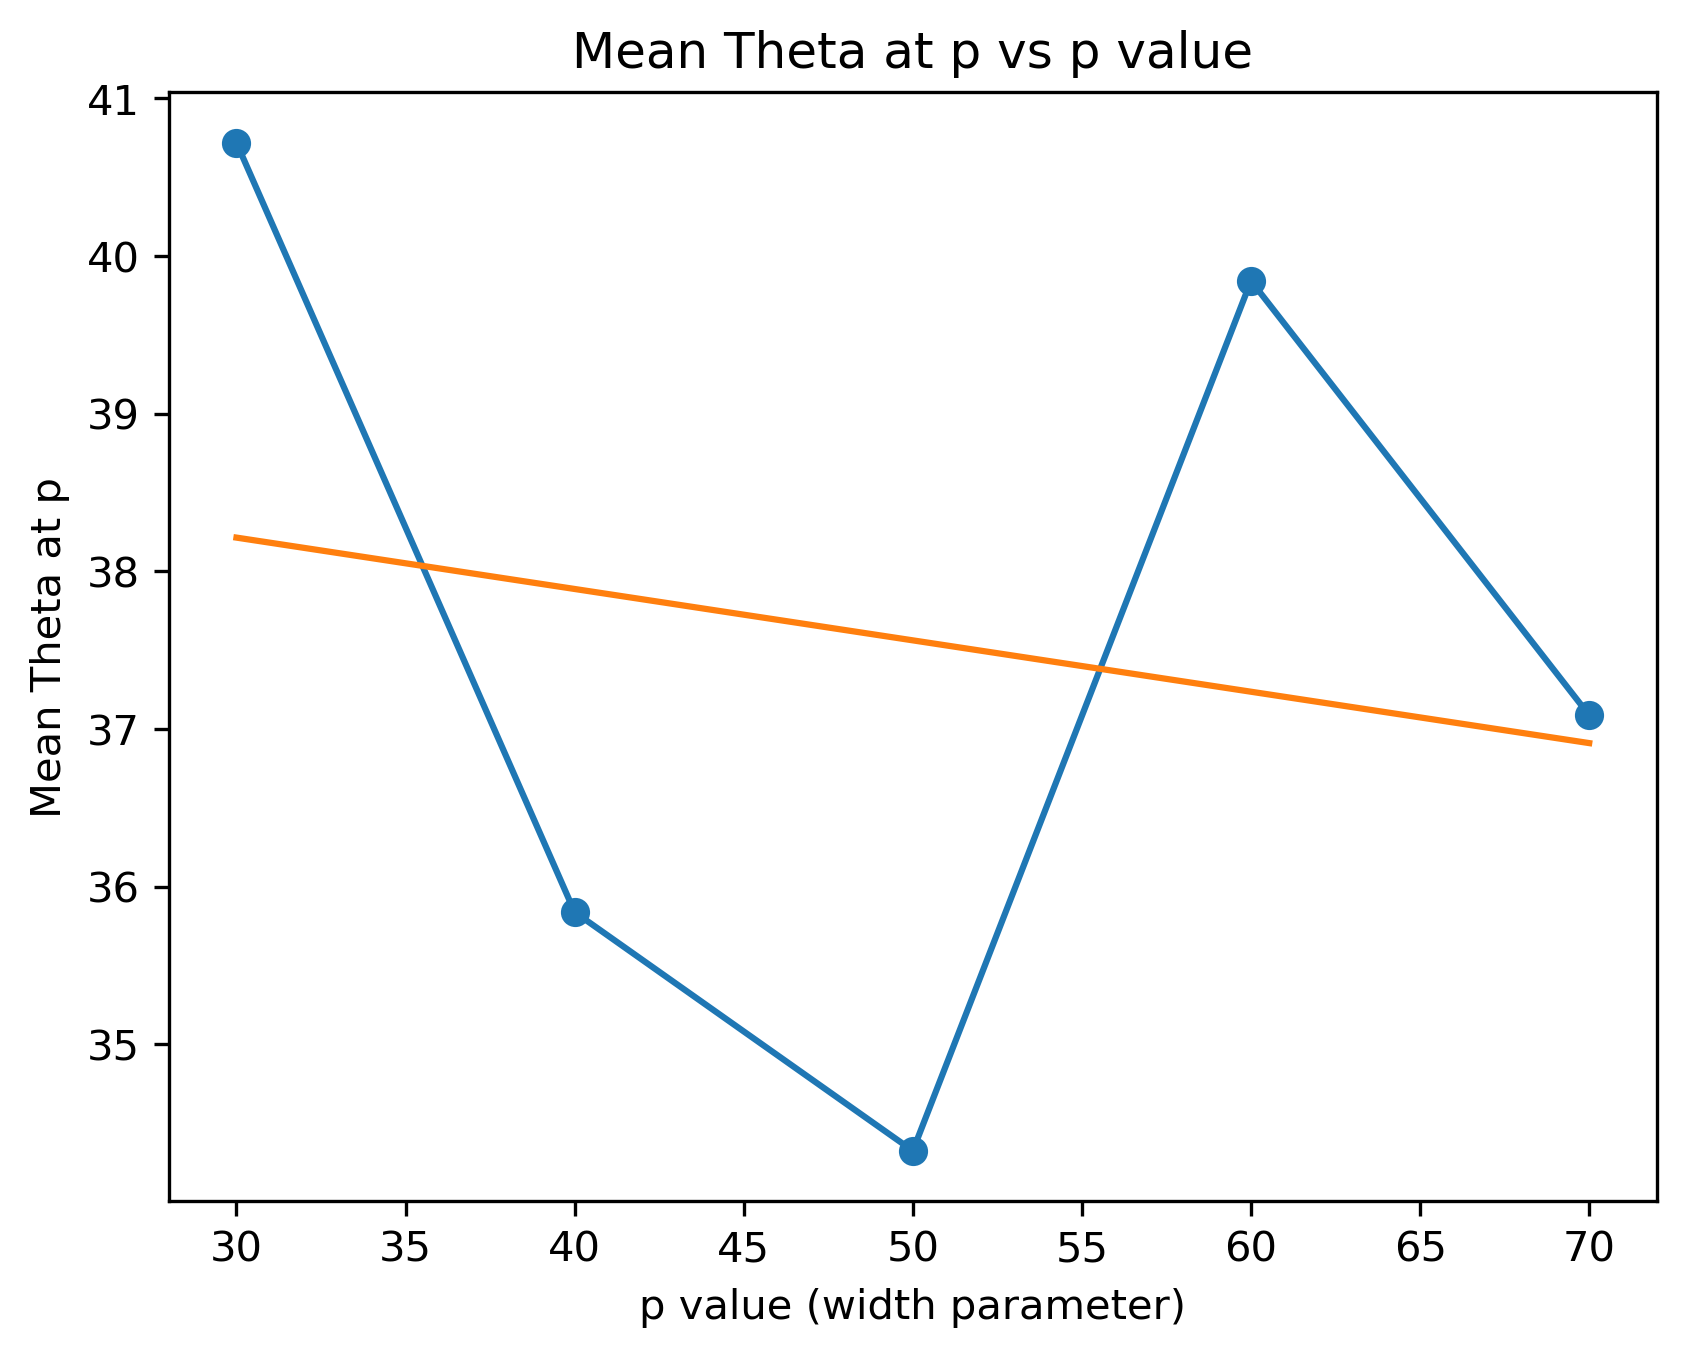
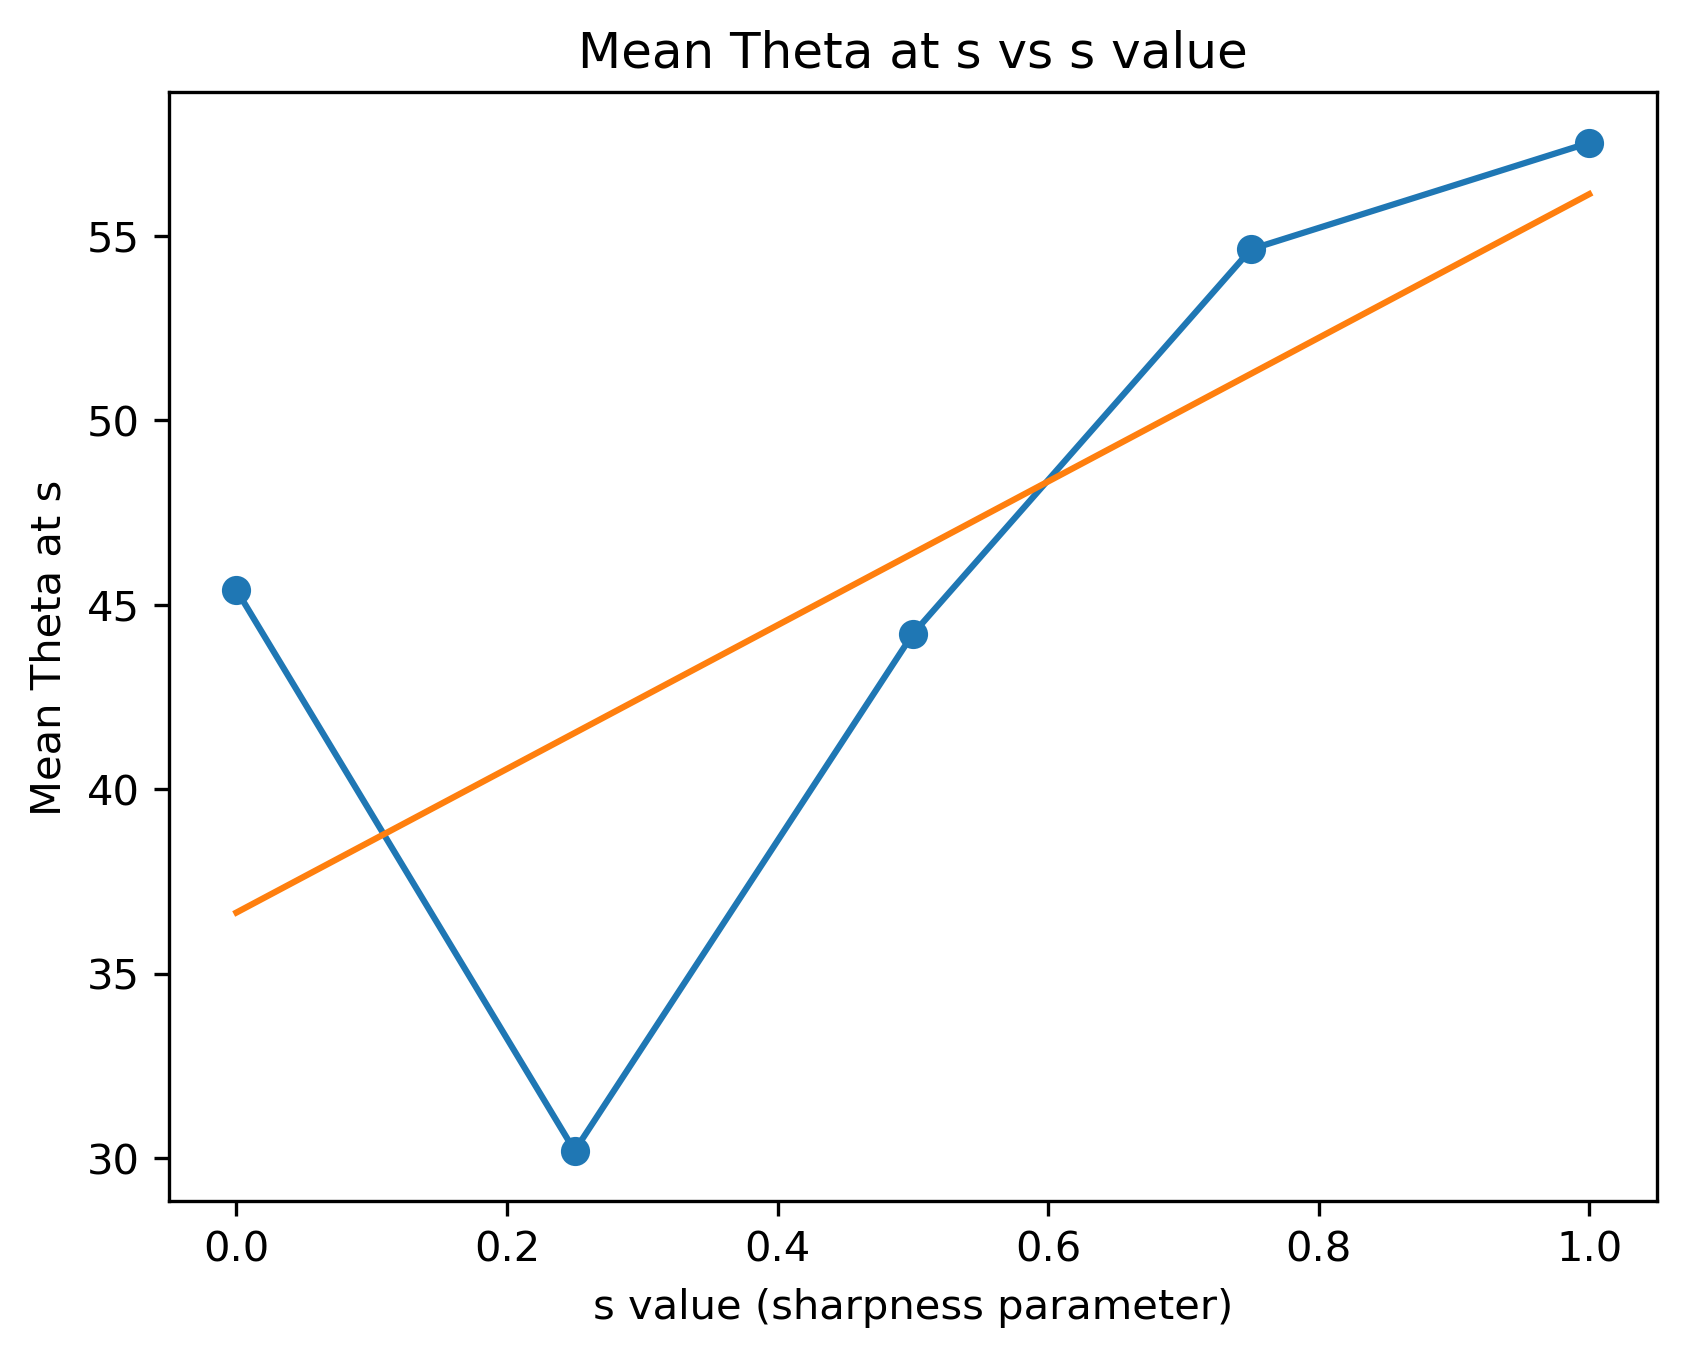
changing for graphs
i had to change graphs and get new results

diff --git a/test.py b/test.py
@@ -97,8 +97,9 @@ def run_simulation(seed, Du, Dv, dx, dt, solver,
 
 if __name__ == '__main__':
 
+    '''parameters'''
     # Different sharpness values
-    #s_values = np.linspace(0, 1, 5) #testing s
+    s_values = np.linspace(0, 1, 5) #testing s
     p_values = [30, 40, 50, 60, 70] #testing p
 
     F = model.F
@@ -106,7 +107,10 @@ if __name__ == '__main__':
 
     solver = model.solver
     first_derivative = model.first_derivative
+    p_val = 50
+    s_val = 0.1
 
+#================================
     plt.figure(figsize=(8, 6))
 
     '''list for graph'''
@@ -114,13 +118,13 @@ if __name__ == '__main__':
     #angle_at_50_for_sharpness = []
 
     # Loop over sharpness values
-    #for s_val in s_values:
-    for p_val in p_values:
+    for s_val in s_values:
+    #for p_val in p_values:
 
-        print(f"\nRunning p1 = {p_val:.2f}")
+        print(f"\nRunning s1 = {s_val:.2f}")
 
         # Get model parameters
-        params = model.init_params(p_val, s_value=0.1) #keep s constant at 0.1 when testing p, and keep p constant at 50 when testing s
+        params = model.init_params(p_val, s_value=s_val) #keep s constant at 0.1 when testing p, and keep p constant at 50 when testing s
 
         Du = params['Du']
         Dv = params['Dv']
@@ -174,7 +178,7 @@ if __name__ == '__main__':
     plt.legend()
 
     plt.savefig(
-        'mean_theta_with_width_change_revised_for_no_oscillations.png',
+        'mean_theta_with_sharpness_change_revised_for_no_oscillations.png',
         #could do whole file path and say Users/swetansinha/Projects/Brandeis_Coding/Functions/Final/name.png
         dpi=300,
         bbox_inches='tight'
@@ -186,18 +190,34 @@ if __name__ == '__main__':
     # Test for PLOT
     #============================
 
+    # '''to get a plot of angle at certain position with different widths'''
+    # plt.figure()
+    # plt.plot(p_values, angle_at_p, marker='o')
+    # r = stats.linregress(p_values, angle_at_p)
+    # plt.plot(p_values, r.intercept + r.slope * np.array(p_values), label=f"Linear Fit: y={r.slope:.2f}x + {r.intercept:.2f}, R²={r.rvalue**2:.2f}")
+    # plt.xlabel('p value (width parameter)')
+    # plt.ylabel('Mean Theta at p')
+    # plt.title('Mean Theta at p vs p value')
+    # plt.savefig(
+    #     'mean_theta_at_p_vs_p_value.png',
+    #     dpi=300,
+    #     bbox_inches='tight'
+    # )
+    # plt.show()
+
     '''to get a plot of angle at certain position with different widths'''
     plt.figure()
-    plt.plot(p_values, angle_at_p, marker='o')
-    r = stats.linregress(p_values, angle_at_p)
-    plt.plot(p_values, r.intercept + r.slope * np.array(p_values), label=f"Linear Fit: y={r.slope:.2f}x + {r.intercept:.2f}, R²={r.rvalue**2:.2f}")
-    plt.xlabel('p value (width parameter)')
-    plt.ylabel('Mean Theta at p')
-    plt.title('Mean Theta at p vs p value')
+    plt.plot(s_values, angle_at_p, marker='o')
+    r = stats.linregress(s_values, angle_at_p)
+    plt.plot(s_values, r.intercept + r.slope * np.array(s_values), label=f"Linear Fit: y={r.slope:.2f}x + {r.intercept:.2f}, R²={r.rvalue**2:.2f}")
+    plt.xlabel('s value (sharpness parameter)')
+    plt.ylabel('Mean Theta at s')
+    plt.title('Mean Theta at s vs s value')
     plt.savefig(
         'mean_theta_at_p_vs_p_value.png',
         dpi=300,
         bbox_inches='tight'
     )
     plt.show()
+
     '''To just see if plot is created the way I want it to be.'''
